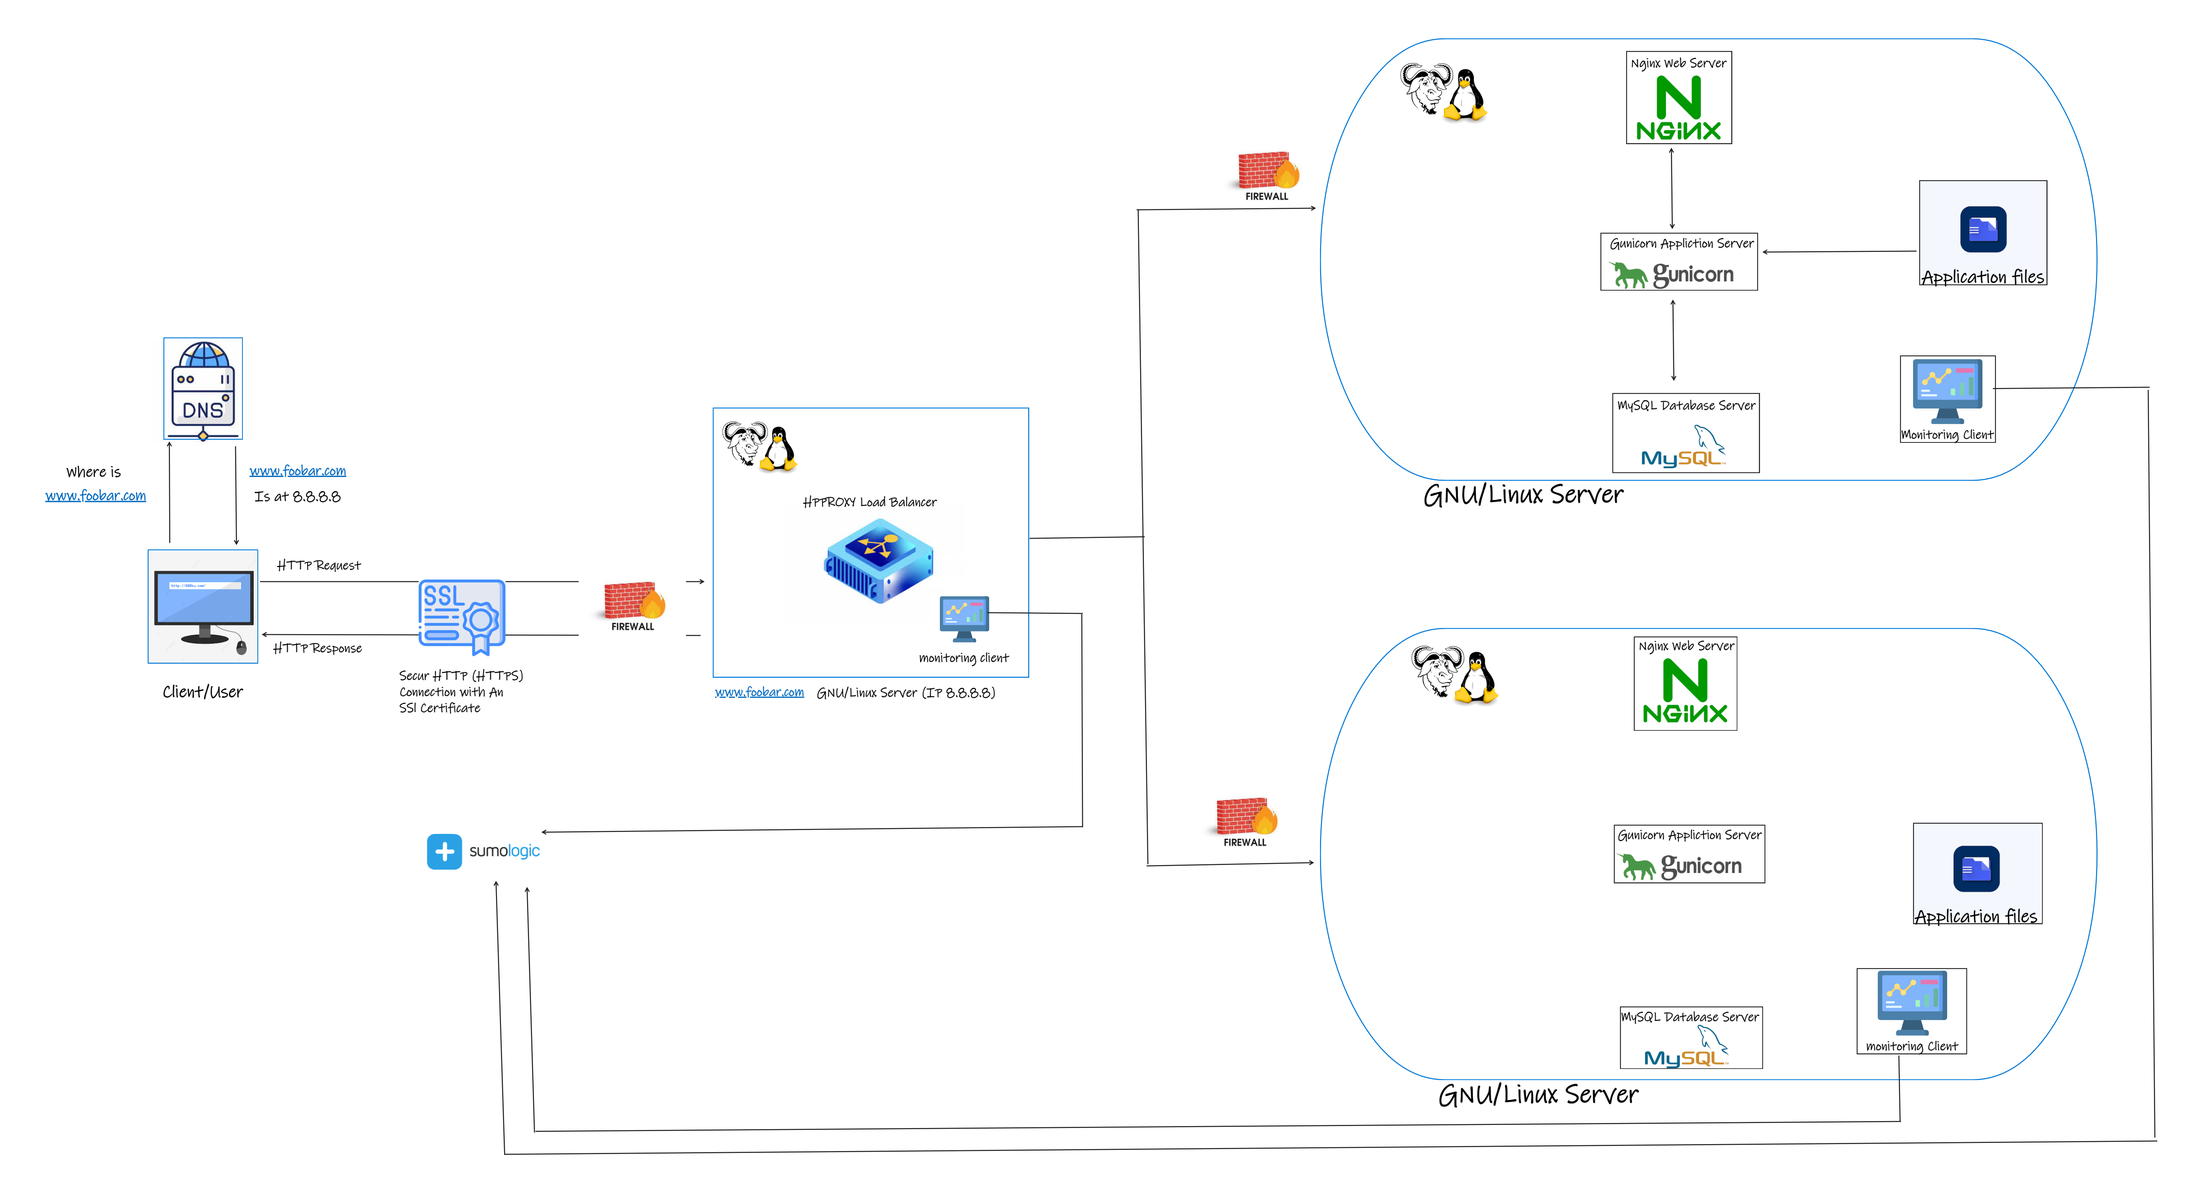
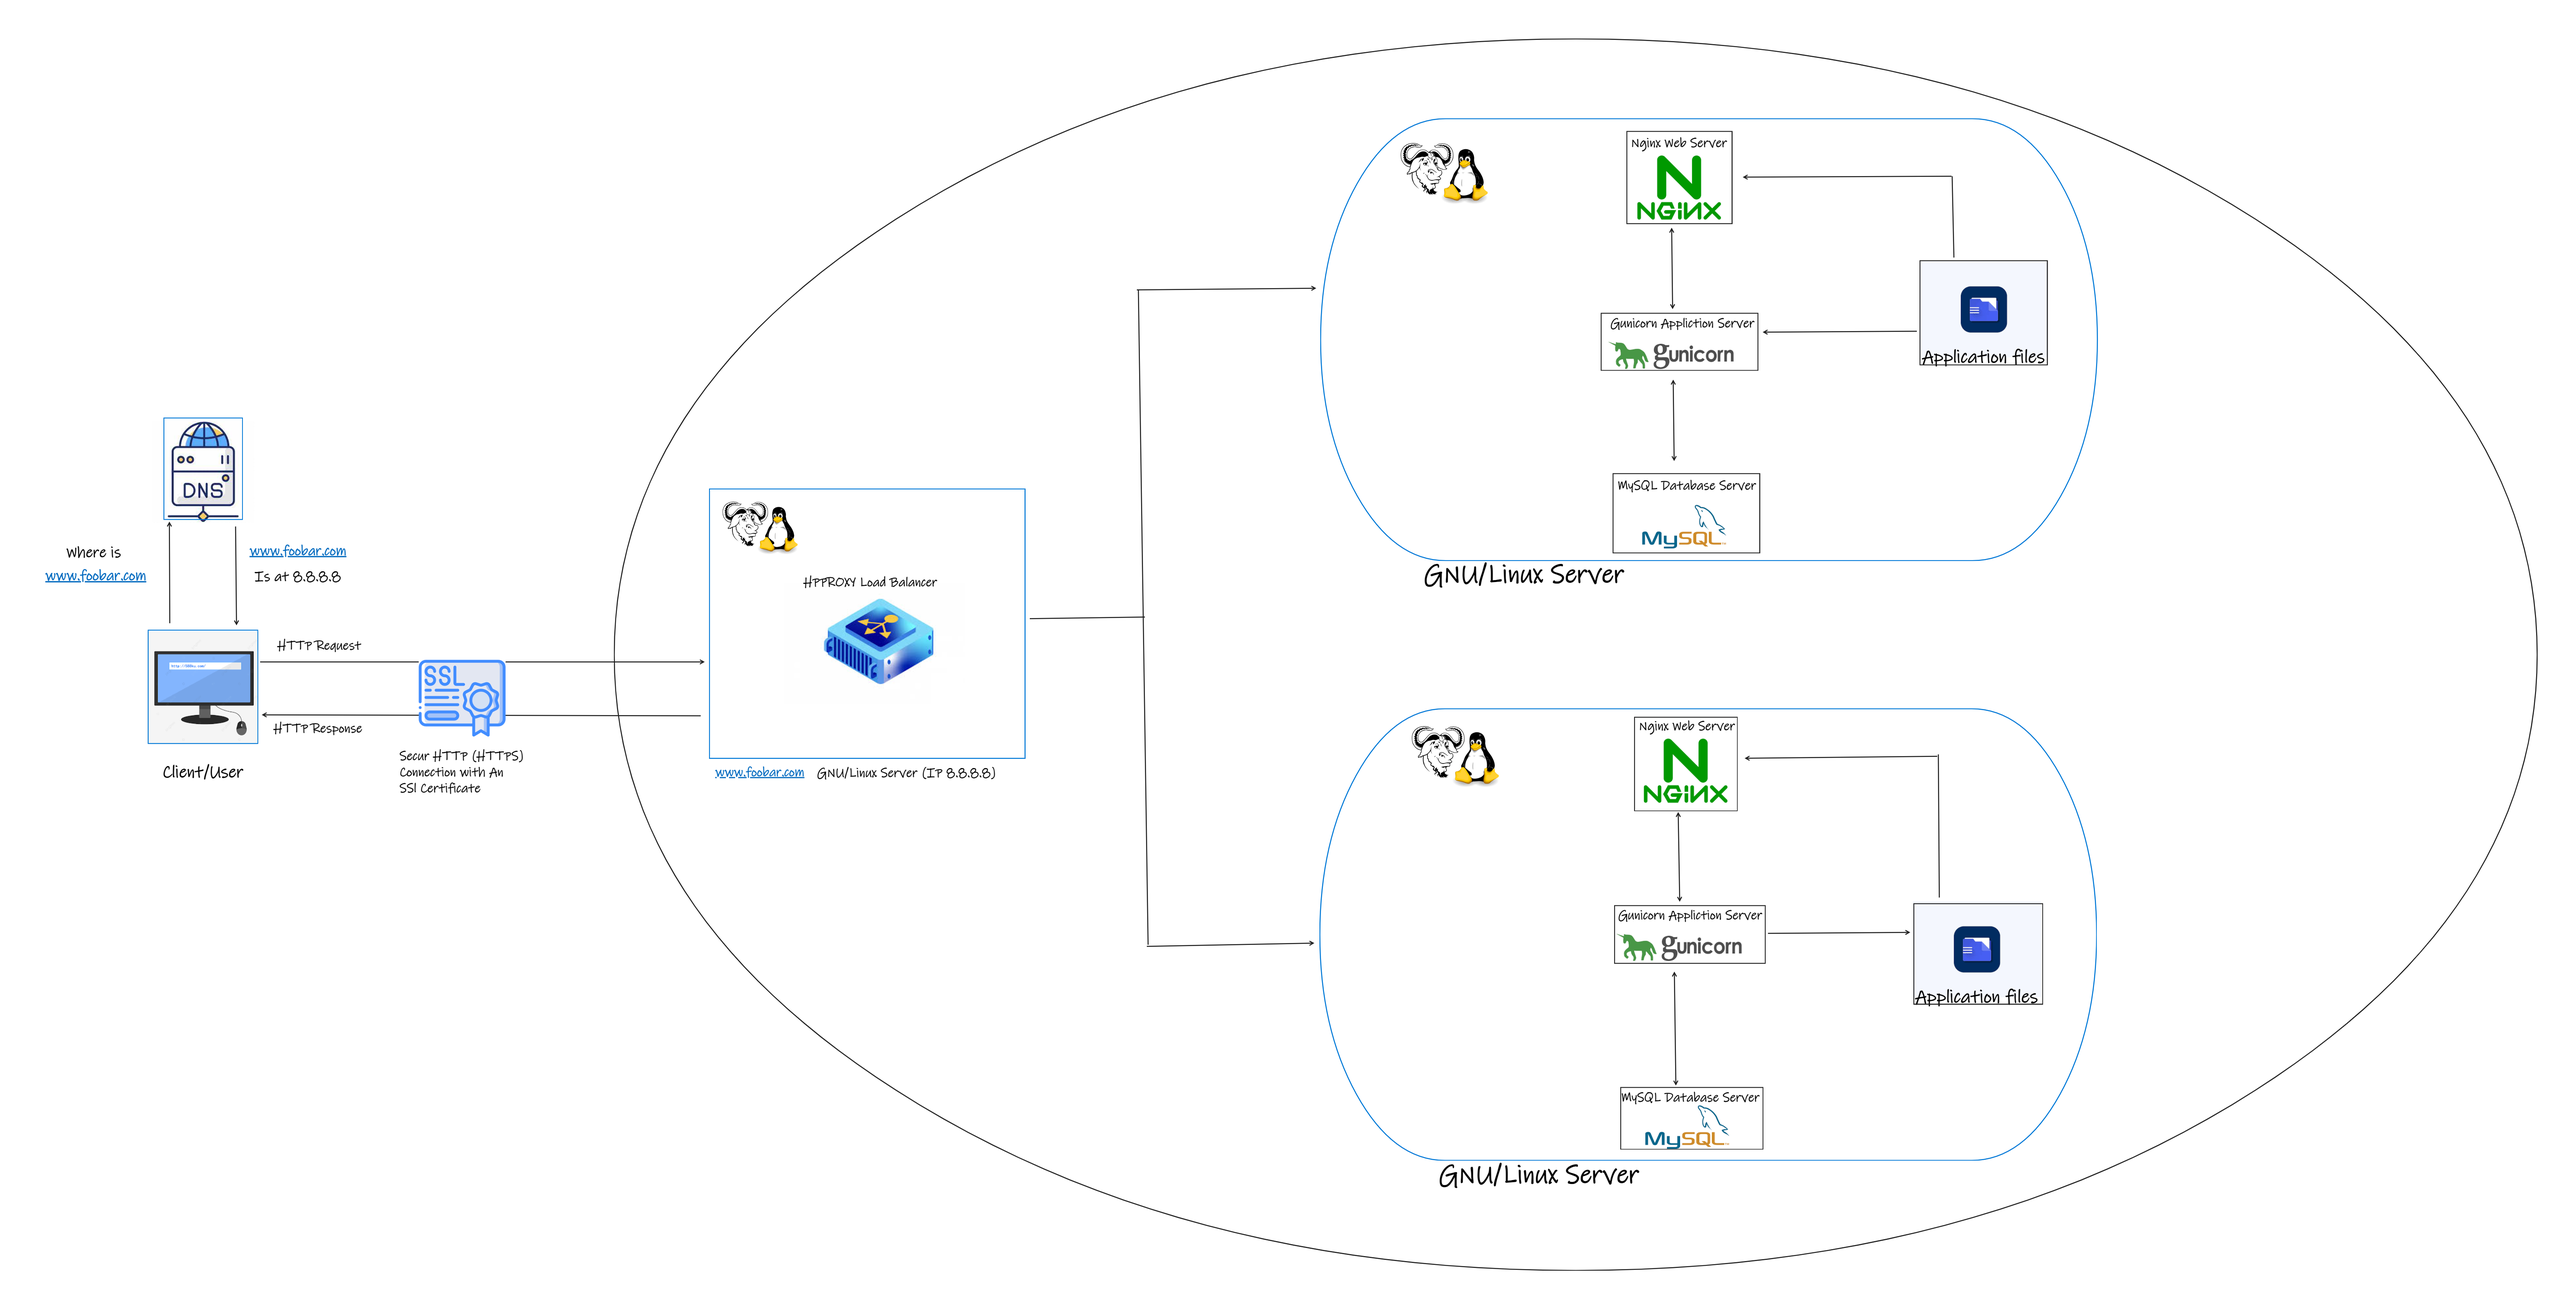
✨ web_infrastructure

diff --git a/0x09-web_infrastructure_design/2-secured_and_monitored_web_infrastructure.md b/0x09-web_infrastructure_design/2-secured_and_monitored_web_infrastructure.md
@@ -1,0 +1,5 @@
+# Issues with the given infrastructure
+
++ Terminating SSL at the load balancer level: Terminating SSL at the load balancer level can be an issue because traffic between the load balancer and the app servers would be unencrypted, leaving the app servers vulnerable to packet sniffing or ARP poisoning.
++ Having only one MySQL server capable of accepting writes: Having only one MySQL server capable of accepting writes can be an issue because it can cause a single point of failure. If the server fails, the website will be unavailable.
++ Having servers with all the same components (database, web server, and application server): Having servers with all the same components can be a problem because their consumption will not grow the same way between each of them. Hence, there is a need to have more database servers to handle the load.
